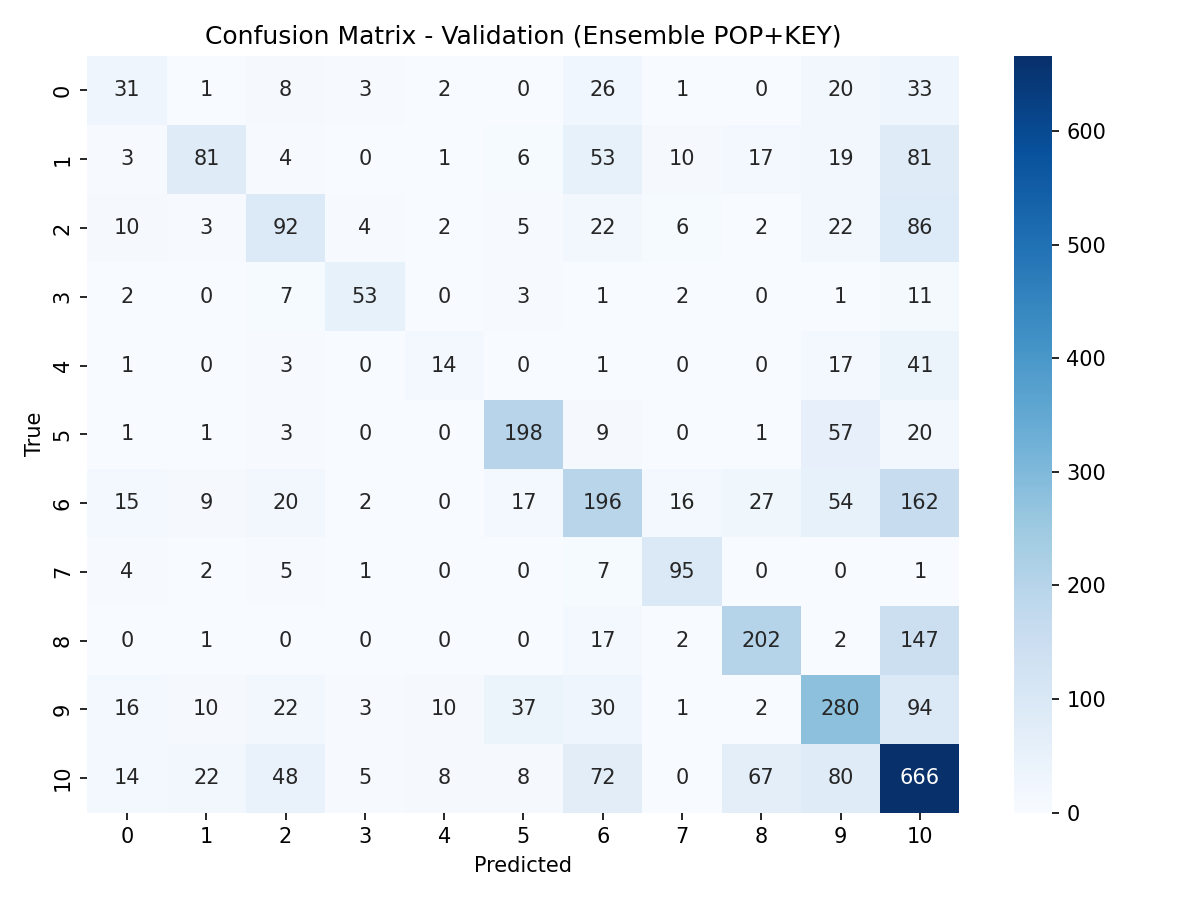
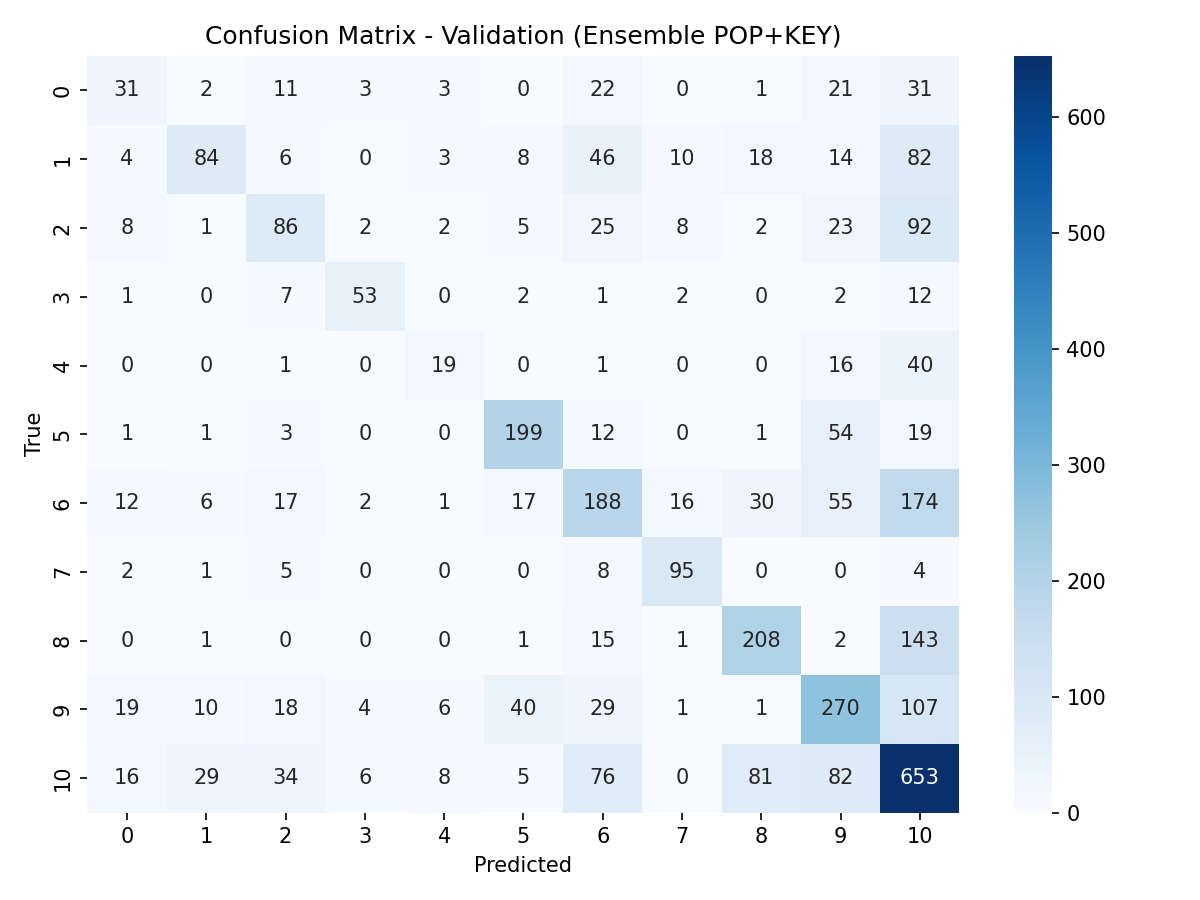
feat: main changes on the preprocessing

diff --git a/python/train_ensemble.py b/python/train_ensemble.py
@@ -1,4 +1,4 @@
-# train_ensemble_popkey.py
+# train_ensemble_popkey_meta_xgb.py
 import numpy as np
 import pandas as pd
 import matplotlib.pyplot as plt
@@ -8,11 +8,9 @@ from typing import List
 from sklearn.model_selection import train_test_split
 from sklearn.impute import SimpleImputer
 from sklearn.preprocessing import StandardScaler
-from sklearn.feature_selection import SelectKBest, f_classif
 from sklearn.metrics import accuracy_score, f1_score, classification_report, confusion_matrix
 
 from sklearn.ensemble import RandomForestClassifier, StackingClassifier
-from sklearn.linear_model import LogisticRegression
 from xgboost import XGBClassifier
 
 RANDOM_SEED = 42
@@ -21,7 +19,7 @@ np.random.seed(RANDOM_SEED)
 def save_cm(y_true, y_pred, classes: List, title: str, out_path: str):
     cm = confusion_matrix(y_true, y_pred, labels=classes)
     df_cm = pd.DataFrame(cm, index=classes, columns=classes)
-    plt.figure(figsize=(max(8, 0.5 * len(classes)), max(6, 0.5 * len(classes))))
+    plt.figure(figsize=(max(8, 0.5 * len(classes)), max(6, 0.5 * len(classes)) ))
     sns.heatmap(df_cm, annot=True, fmt="d", cmap="Blues")
     plt.xlabel("Predicted"); plt.ylabel("True")
     plt.title(title); plt.tight_layout(); plt.savefig(out_path, dpi=150); plt.close()
@@ -29,7 +27,8 @@ def save_cm(y_true, y_pred, classes: List, title: str, out_path: str):
 def print_and_save_report(y_true, y_pred, path: str):
     rep = classification_report(y_true, y_pred, digits=5, zero_division=0)
     print(f"\n--- {path} ---\n{rep}")
-    with open(path, "w", encoding="utf-8") as f: f.write(rep)
+    with open(path, "w", encoding="utf-8") as f:
+        f.write(rep)
 
 # --- Load preprocessed POP+KEY data ---
 train_df = pd.read_csv("train_preprocessed_popkey.csv")
@@ -51,27 +50,44 @@ Xtr_imp  = imp.transform(X_train_raw)
 Xval_imp = imp.transform(X_val_raw)
 
 scl = StandardScaler().fit(Xtr_imp)
-Xtr_scl  = scl.transform(Xtr_imp)
-Xval_scl = scl.transform(Xval_imp)
-X_train = Xtr_scl
-X_val   = Xval_scl
+X_train = scl.transform(Xtr_imp)
+X_val   = scl.transform(Xval_imp)
 
-# Base learners
-rf = RandomForestClassifier(n_estimators=800, random_state=RANDOM_SEED)
-xgb = XGBClassifier(
+# --- Base learners ---
+rf = RandomForestClassifier(
+    n_estimators=800,
+    random_state=RANDOM_SEED
+)
+
+xgb_base = XGBClassifier(
     tree_method="hist",
-    n_estimators=600,
-    max_depth=6,
-    learning_rate=0.01,
+    n_estimators=900,
+    max_depth=5,
+    learning_rate=0.05,
+    subsample=0.9,
+    colsample_bytree=0.9,
+    reg_lambda=1.0,
     eval_metric="mlogloss",
     random_state=RANDOM_SEED,
 )
-meta = LogisticRegression(max_iter=1000, random_state=RANDOM_SEED)
+
+# --- Meta learner: XGBoost (regularized & shallow to reduce overfit) ---
+xgb_meta = XGBClassifier(
+    tree_method="hist",
+    n_estimators=400,
+    max_depth=3,
+    learning_rate=0.05,
+    subsample=0.8,
+    colsample_bytree=0.8,
+    reg_lambda=1.0,
+    eval_metric="mlogloss",
+    random_state=RANDOM_SEED,
+)
 
 # Stacking (passthrough so meta sees OOF preds + original features)
 stack = StackingClassifier(
-    estimators=[("rf", rf), ("xgb", xgb)],
-    final_estimator=meta,
+    estimators=[("rf", rf), ("xgb", xgb_base)],
+    final_estimator=xgb_meta,
     passthrough=True,
     cv=5,
     n_jobs=-1
@@ -86,15 +102,15 @@ acc  = accuracy_score(y_val, y_val_pred)
 wf1  = f1_score(y_val, y_val_pred, average="weighted", zero_division=0)
 mf1  = f1_score(y_val, y_val_pred, average="macro",    zero_division=0)
 print(f"\nValidation -> Acc: {acc:.5f} | F1_w: {wf1:.5f} | F1_m: {mf1:.5f}")
-print_and_save_report(y_val, y_val_pred, "val_report_ensemble_popkey.txt")
-save_cm(y_val, y_val_pred, CLASSES, "Confusion Matrix - Validation (Ensemble POP+KEY)", "cm_val_ensemble_popkey.png")
+print_and_save_report(y_val, y_val_pred, "val_report_ensemble_popkey_metaXGB.txt")
+save_cm(y_val, y_val_pred, CLASSES,
+        "Confusion Matrix - Validation (Ensemble POP+KEY, meta=XGB)",
+        "cm_val_ensemble_popkey_metaXGB.png")
 
 # Classified set (same transformers)
-Xc_imp = imp.transform(cls_df[features])
-Xc_scl = scl.transform(Xc_imp)
-Xc_sel = Xc_scl
+Xc = scl.transform(imp.transform(cls_df[features]))
 yc_true = cls_df["Class"]
-yc_pred = stack.predict(Xc_sel)
+yc_pred = stack.predict(Xc)
 acc_c  = accuracy_score(yc_true, yc_pred)
 wf1_c  = f1_score(yc_true, yc_pred, average="weighted", zero_division=0)
 mf1_c  = f1_score(yc_true, yc_pred, average="macro",    zero_division=0)

diff --git a/python/compare-experiments.py b/python/compare-experiments.py
@@ -117,3 +117,45 @@ cls_plot_path = plot_grouped_bars_with_values(cls_df, "Classified Set: Metric Co
 
 (val_plot_path, cls_plot_path)
 print(val_plot_path, cls_plot_path)
+
+
+import matplotlib.pyplot as plt
+import numpy as np
+
+# Original XGBoost values
+xgb_values = [0.475, 0.444, 0.475, 0.437]
+
+# Updated Ensemble values
+ensemble_values = [0.542, 0.538, 0.534, 0.534]
+
+# Metric names
+metrics = ["Accuracy", "Precision (W)", "Recall (W)", "F1-score (W)"]
+
+# Bar chart parameters
+x = np.arange(len(metrics))
+width = 0.35
+
+fig, ax = plt.subplots(figsize=(8, 5))
+bars1 = ax.bar(x - width/2, xgb_values, width, label="XGBoost Base", color="#1f77b4")
+bars2 = ax.bar(x + width/2, ensemble_values, width, label="Ensemble + POP+KEY", color="#ff7f0e")
+
+# Adding values above bars
+for bars in [bars1, bars2]:
+    for bar in bars:
+        height = bar.get_height()
+        ax.annotate(f"{height:.3f}",
+                    xy=(bar.get_x() + bar.get_width() / 2, height),
+                    xytext=(0, 3),
+                    textcoords="offset points",
+                    ha='center', va='bottom')
+
+# Labels and formatting
+ax.set_ylabel("Score")
+ax.set_title("Validation Set: Metric Comparison")
+ax.set_xticks(x)
+ax.set_xticklabels(metrics)
+ax.set_ylim(0, 0.65)
+ax.legend()
+
+plt.tight_layout()
+plt.show()
